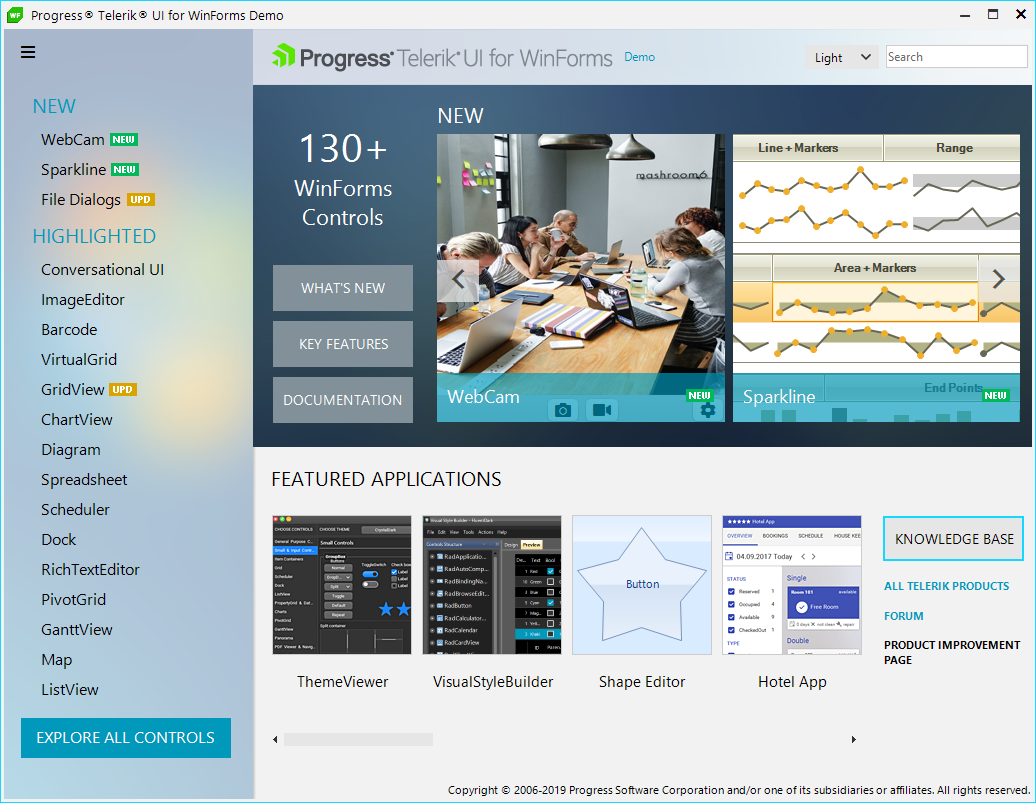
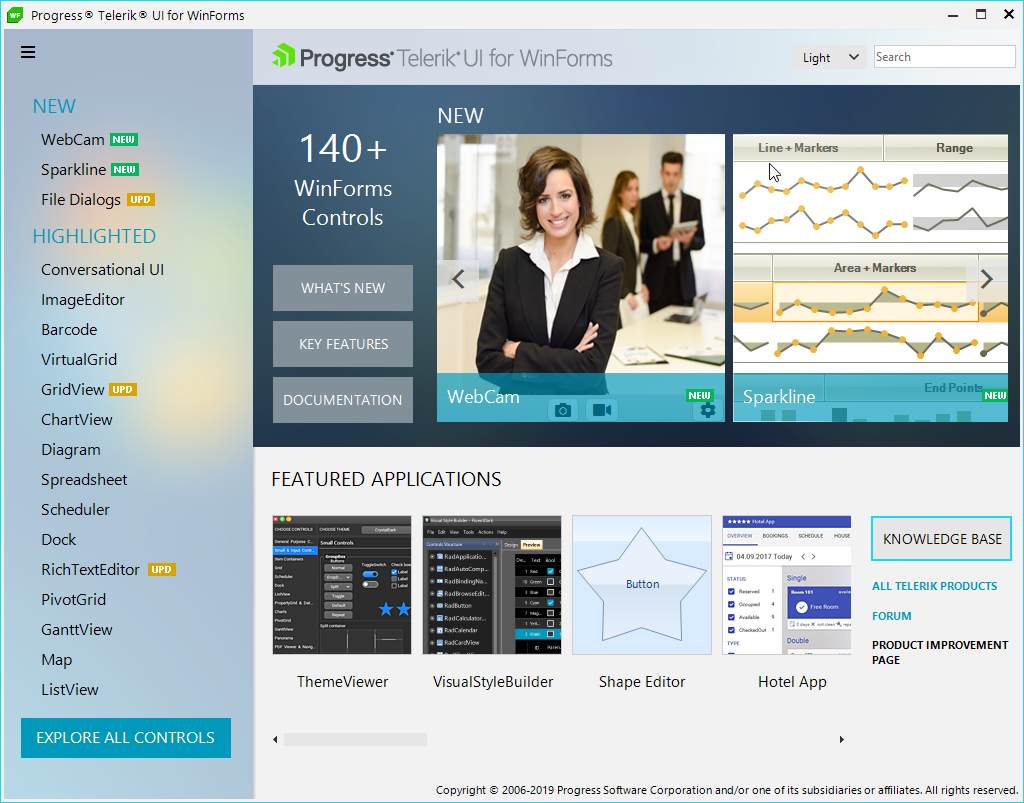
Updated product info and QSF image

diff --git a/introduction.md b/introduction.md
@@ -13,7 +13,7 @@ previous_url: overview, RadControlsForWinForms
 
 Thank you for choosing Telerik® UI for for WinForms!
 
-The Telerik® UI for WinForms controls suite includes over 130 UI controls that you can use to easily build unique and visually stunning Line of Business applications. Boasting a well-designed architecture and CAB support, Telerik UI for WinForms controls are perfectly suited for your Enterprise desktop development
+The Telerik® UI for WinForms controls suite includes over 140 UI controls that you can use to easily build unique and visually stunning Line of Business applications. Boasting a well-designed architecture and CAB support, Telerik UI for WinForms controls are perfectly suited for your Enterprise desktop development
 
 To read more about the benefits of using Telerik® UI for WinForms, please visit the [product overview page](https://www.telerik.com/products/winforms.aspx).
 
